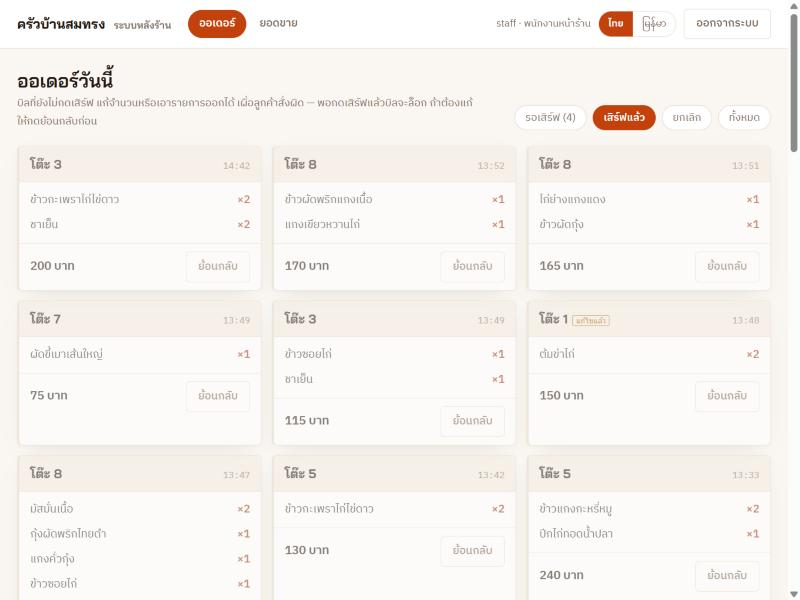
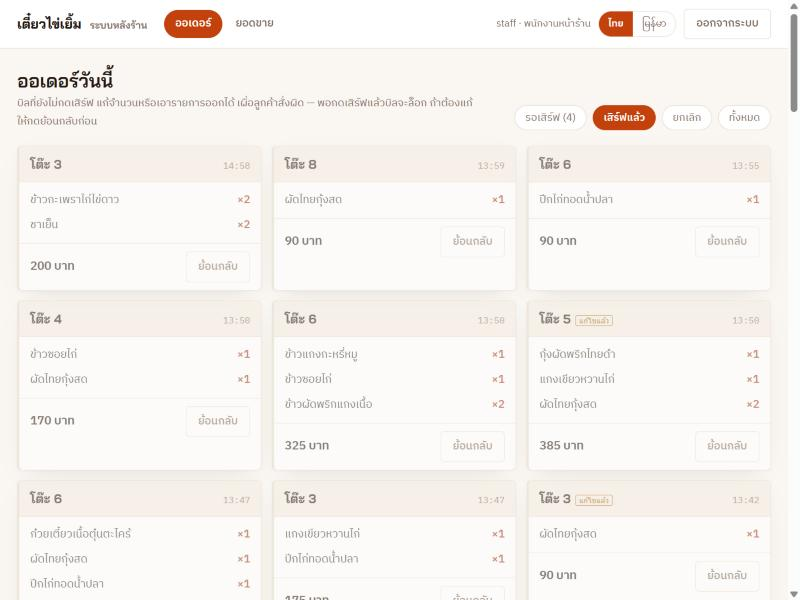
Re-shoot manual screenshots with the shop name เตี๋ยวไข่เยิ้ม
All screens now show the real shop name. Pins moved on the two screens
whose layout shifted; the unused Burmese login shot is removed.

diff --git a/tools/make-manuals.py b/tools/make-manuals.py
@@ -307,12 +307,12 @@ OWNER = f"""
 <h2>5. จัดการเมนู</h2>
 <p>กดแท็บ <b>จัดการเมนู</b> แต่ละแถวคือ 1 เมนู <b>พิมพ์แก้แล้วบันทึกเองอัตโนมัติ</b></p>
 {fig("menu_top", [(10, 372, "<b>รูปอาหาร</b> — กดที่รูปแล้วเลือกรูปจากเครื่อง (หรือถ่ายใหม่) · ✕ = เอารูปออก"),
-                  (366, 385, "<b>ชื่อเมนู</b> (ภาษาไทย) — ลูกค้าเห็นชื่อนี้"),
-                  (366, 421, "<b>ชื่อภาษาพม่า</b> — โชว์บนจอพนักงานเท่านั้น ลูกค้าไม่เห็น"),
-                  (452, 372, "<b>ราคา</b> (บาท)"),
-                  (538, 372, "<b>หมวด</b> — แนะนำ / ข้าว / เส้น / ทานเล่น / เครื่องดื่ม"),
-                  (620, 366, "<b>ของหมด</b> — ติ๊กเมื่อของหมดวันนี้ ลูกค้าจะสั่งไม่ได้"),
-                  (660, 372, "<b>ลบเมนู</b> (ยอดขายย้อนหลังของเมนูนั้นยังอยู่)"),
+                  (480, 385, "<b>ชื่อเมนู</b> (ภาษาไทย) — ลูกค้าเห็นชื่อนี้"),
+                  (480, 421, "<b>ชื่อภาษาพม่า</b> — โชว์บนจอพนักงานเท่านั้น ลูกค้าไม่เห็น"),
+                  (566, 372, "<b>ราคา</b> (บาท)"),
+                  (652, 372, "<b>หมวด</b> — แนะนำ / ข้าว / เส้น / ทานเล่น / เครื่องดื่ม"),
+                  (705, 397, "<b>ของหมด</b> — ติ๊กเมื่อของหมดวันนี้ ลูกค้าจะสั่งไม่ได้"),
+                  (775, 378, "<b>ลบเมนู</b> (ยอดขายย้อนหลังของเมนูนั้นยังอยู่)"),
                   (212, 451, "<b>UID</b> รหัสประจำเมนู ระบบสร้างให้เอง ไม่ต้องแก้")])}
 <h3>เพิ่มเมนูใหม่</h3>
 {fig("menu_bottom", [(520, 583, "กด <b>+ เพิ่มใน ...</b> ตามหมวด → ได้แถวใหม่ชื่อ \"เมนูใหม่\" ราคา 50 → แก้ชื่อ ราคา ใส่รูป"),
@@ -374,9 +374,9 @@ OWNER = f"""
 
 <section class="page">
 <h2>10. เปลี่ยนรหัสผ่าน · 11. งานดูแลรายปี</h2>
-{fig("sales_bottom", [(205, 363, "<b>เปลี่ยนรหัสผ่าน</b> ของบัญชีที่กำลังใช้อยู่ (อย่างน้อย 8 ตัว)"),
-                      (398, 528, "<b>โหลดบิลย้อนหลัง</b> — เลือกวันที่ แล้วกดดาวน์โหลด (ทีละวัน)"),
-                      (155, 572, "<b>ลบบิลที่เก่ากว่า 1 ปี</b> — กดปีละครั้ง")])}
+{fig("sales_bottom", [(205, 375, "<b>เปลี่ยนรหัสผ่าน</b> ของบัญชีที่กำลังใช้อยู่ (อย่างน้อย 8 ตัว)"),
+                      (398, 540, "<b>โหลดบิลย้อนหลัง</b> — เลือกวันที่ แล้วกดดาวน์โหลด (ทีละวัน)"),
+                      (155, 584, "<b>ลบบิลที่เก่ากว่า 1 ปี</b> — กดปีละครั้ง")])}
 <h3>เปลี่ยนรหัสผ่าน</h3>
 <ol class="steps">
   <li>เปลี่ยนรหัส<b>เจ้าของ</b>: เข้าด้วยรหัสเจ้าของ → แท็บยอดขาย → เลื่อนลงล่างสุด → พิมพ์รหัสใหม่ → กดเปลี่ยน</li>
